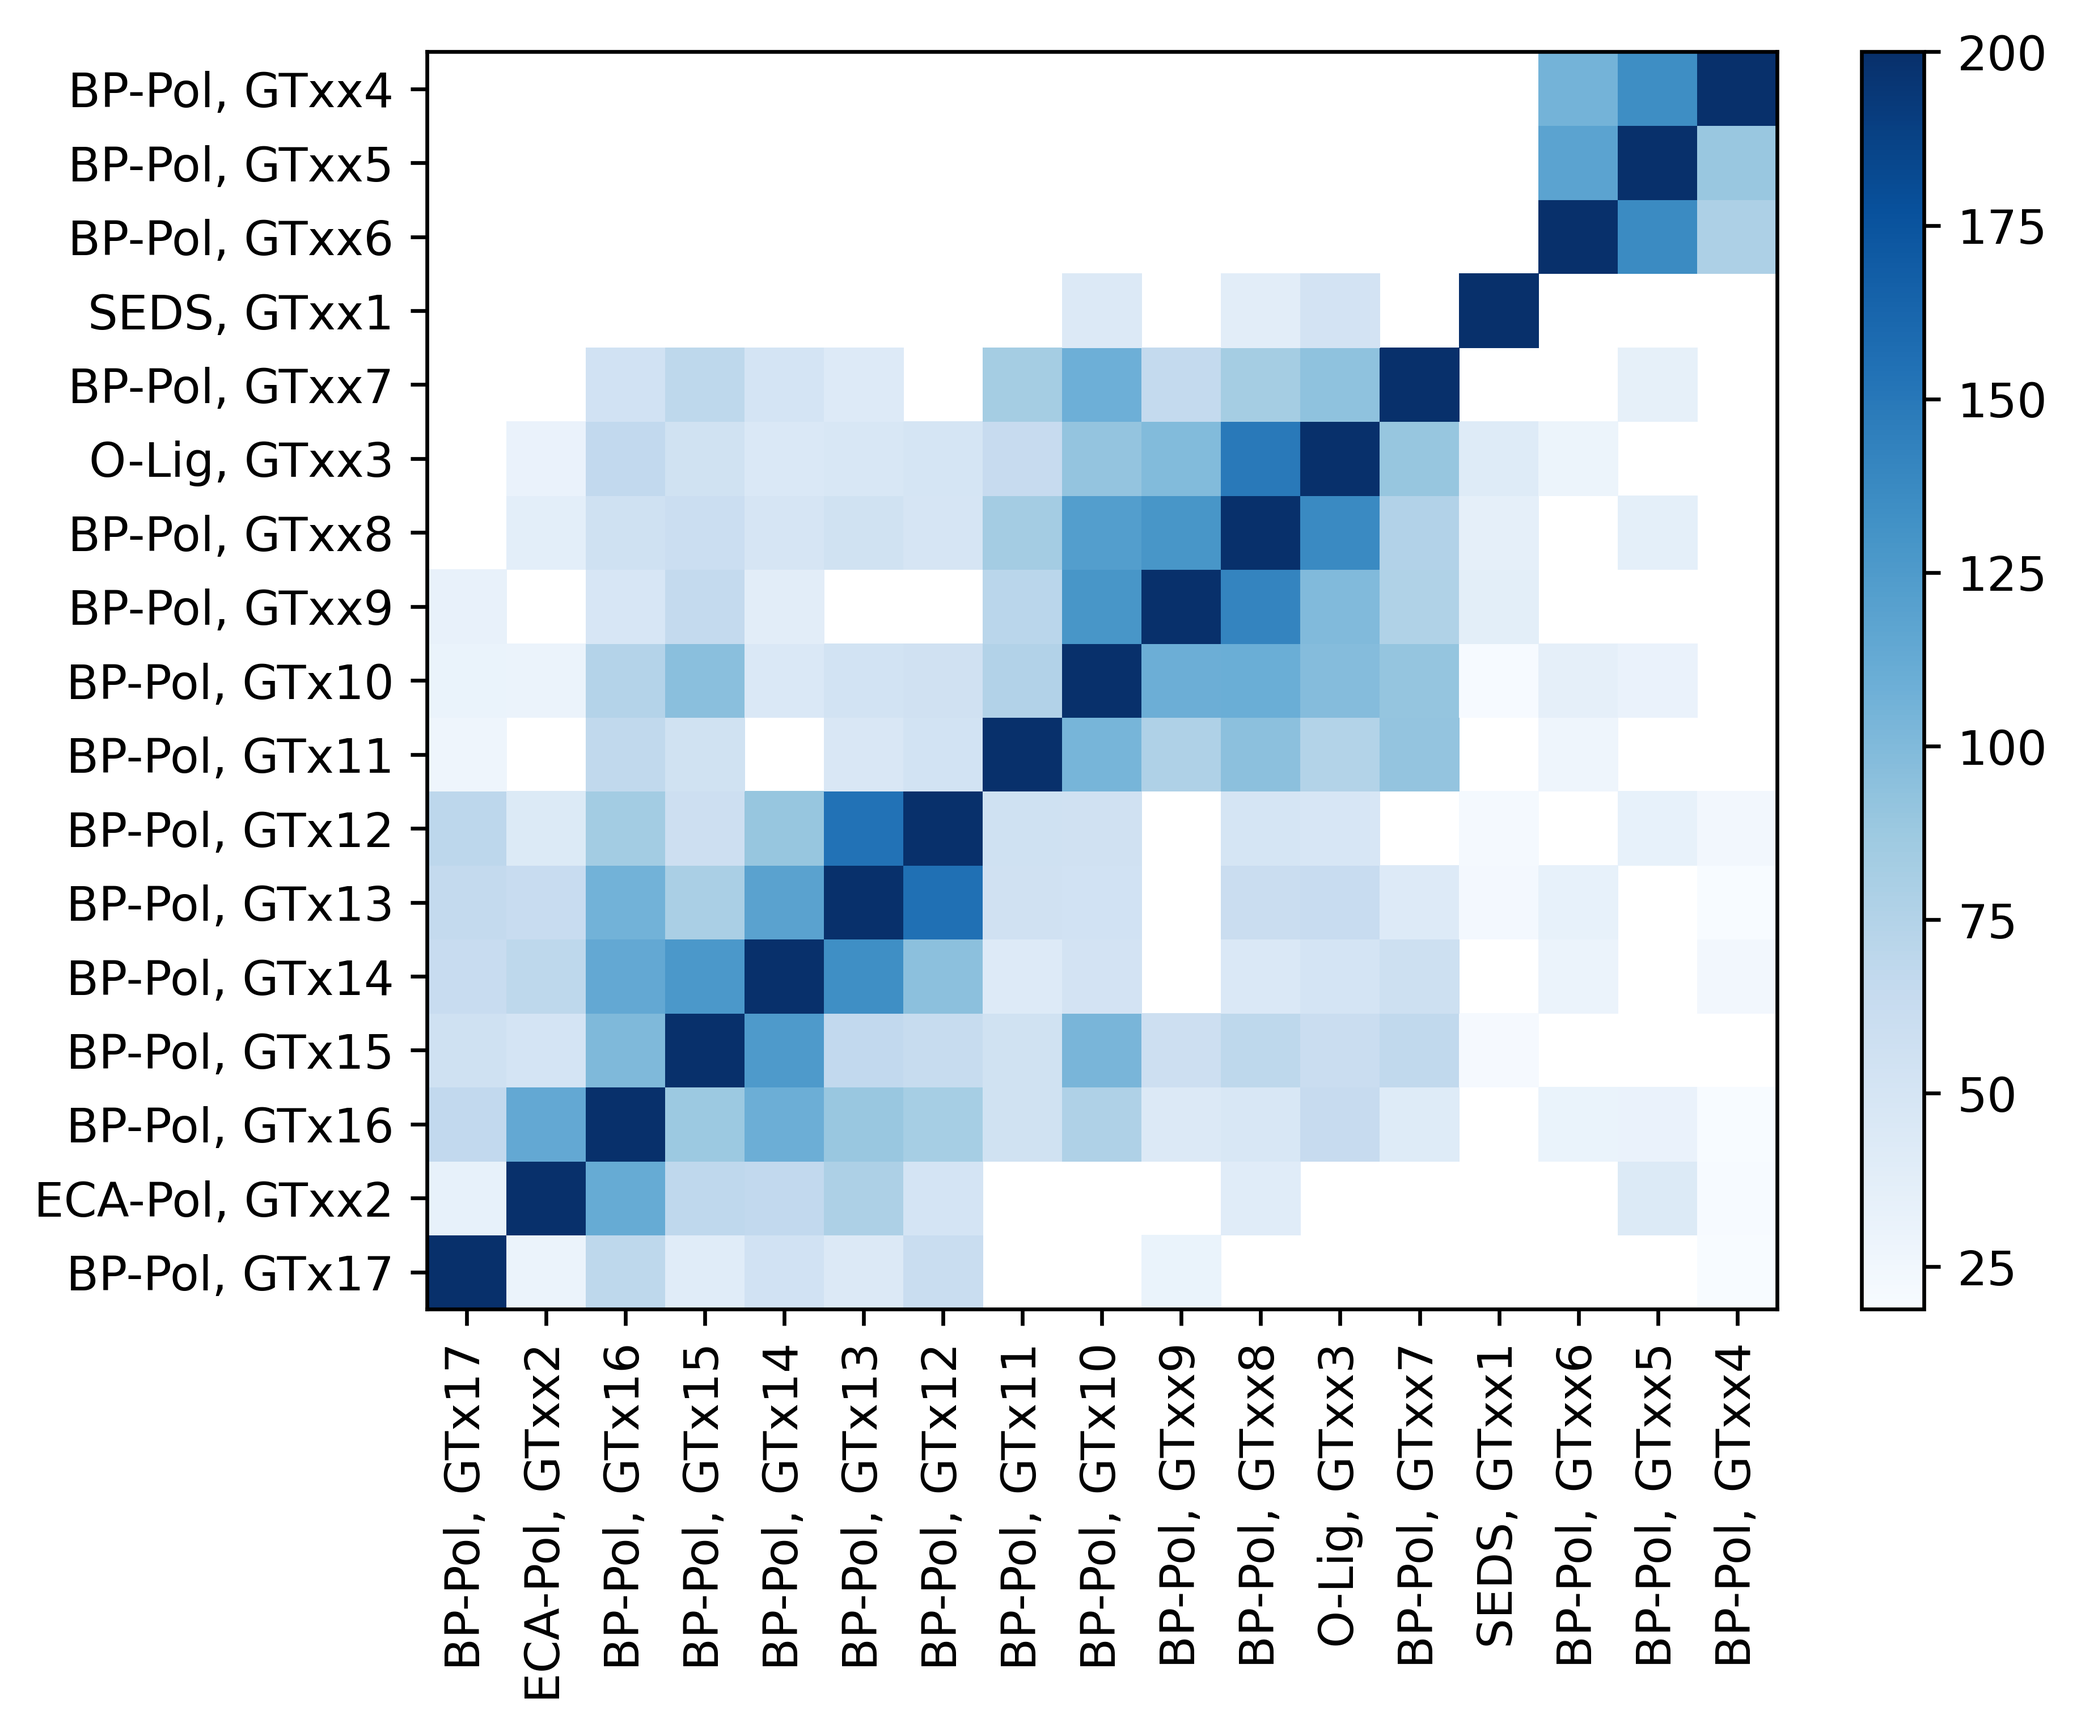
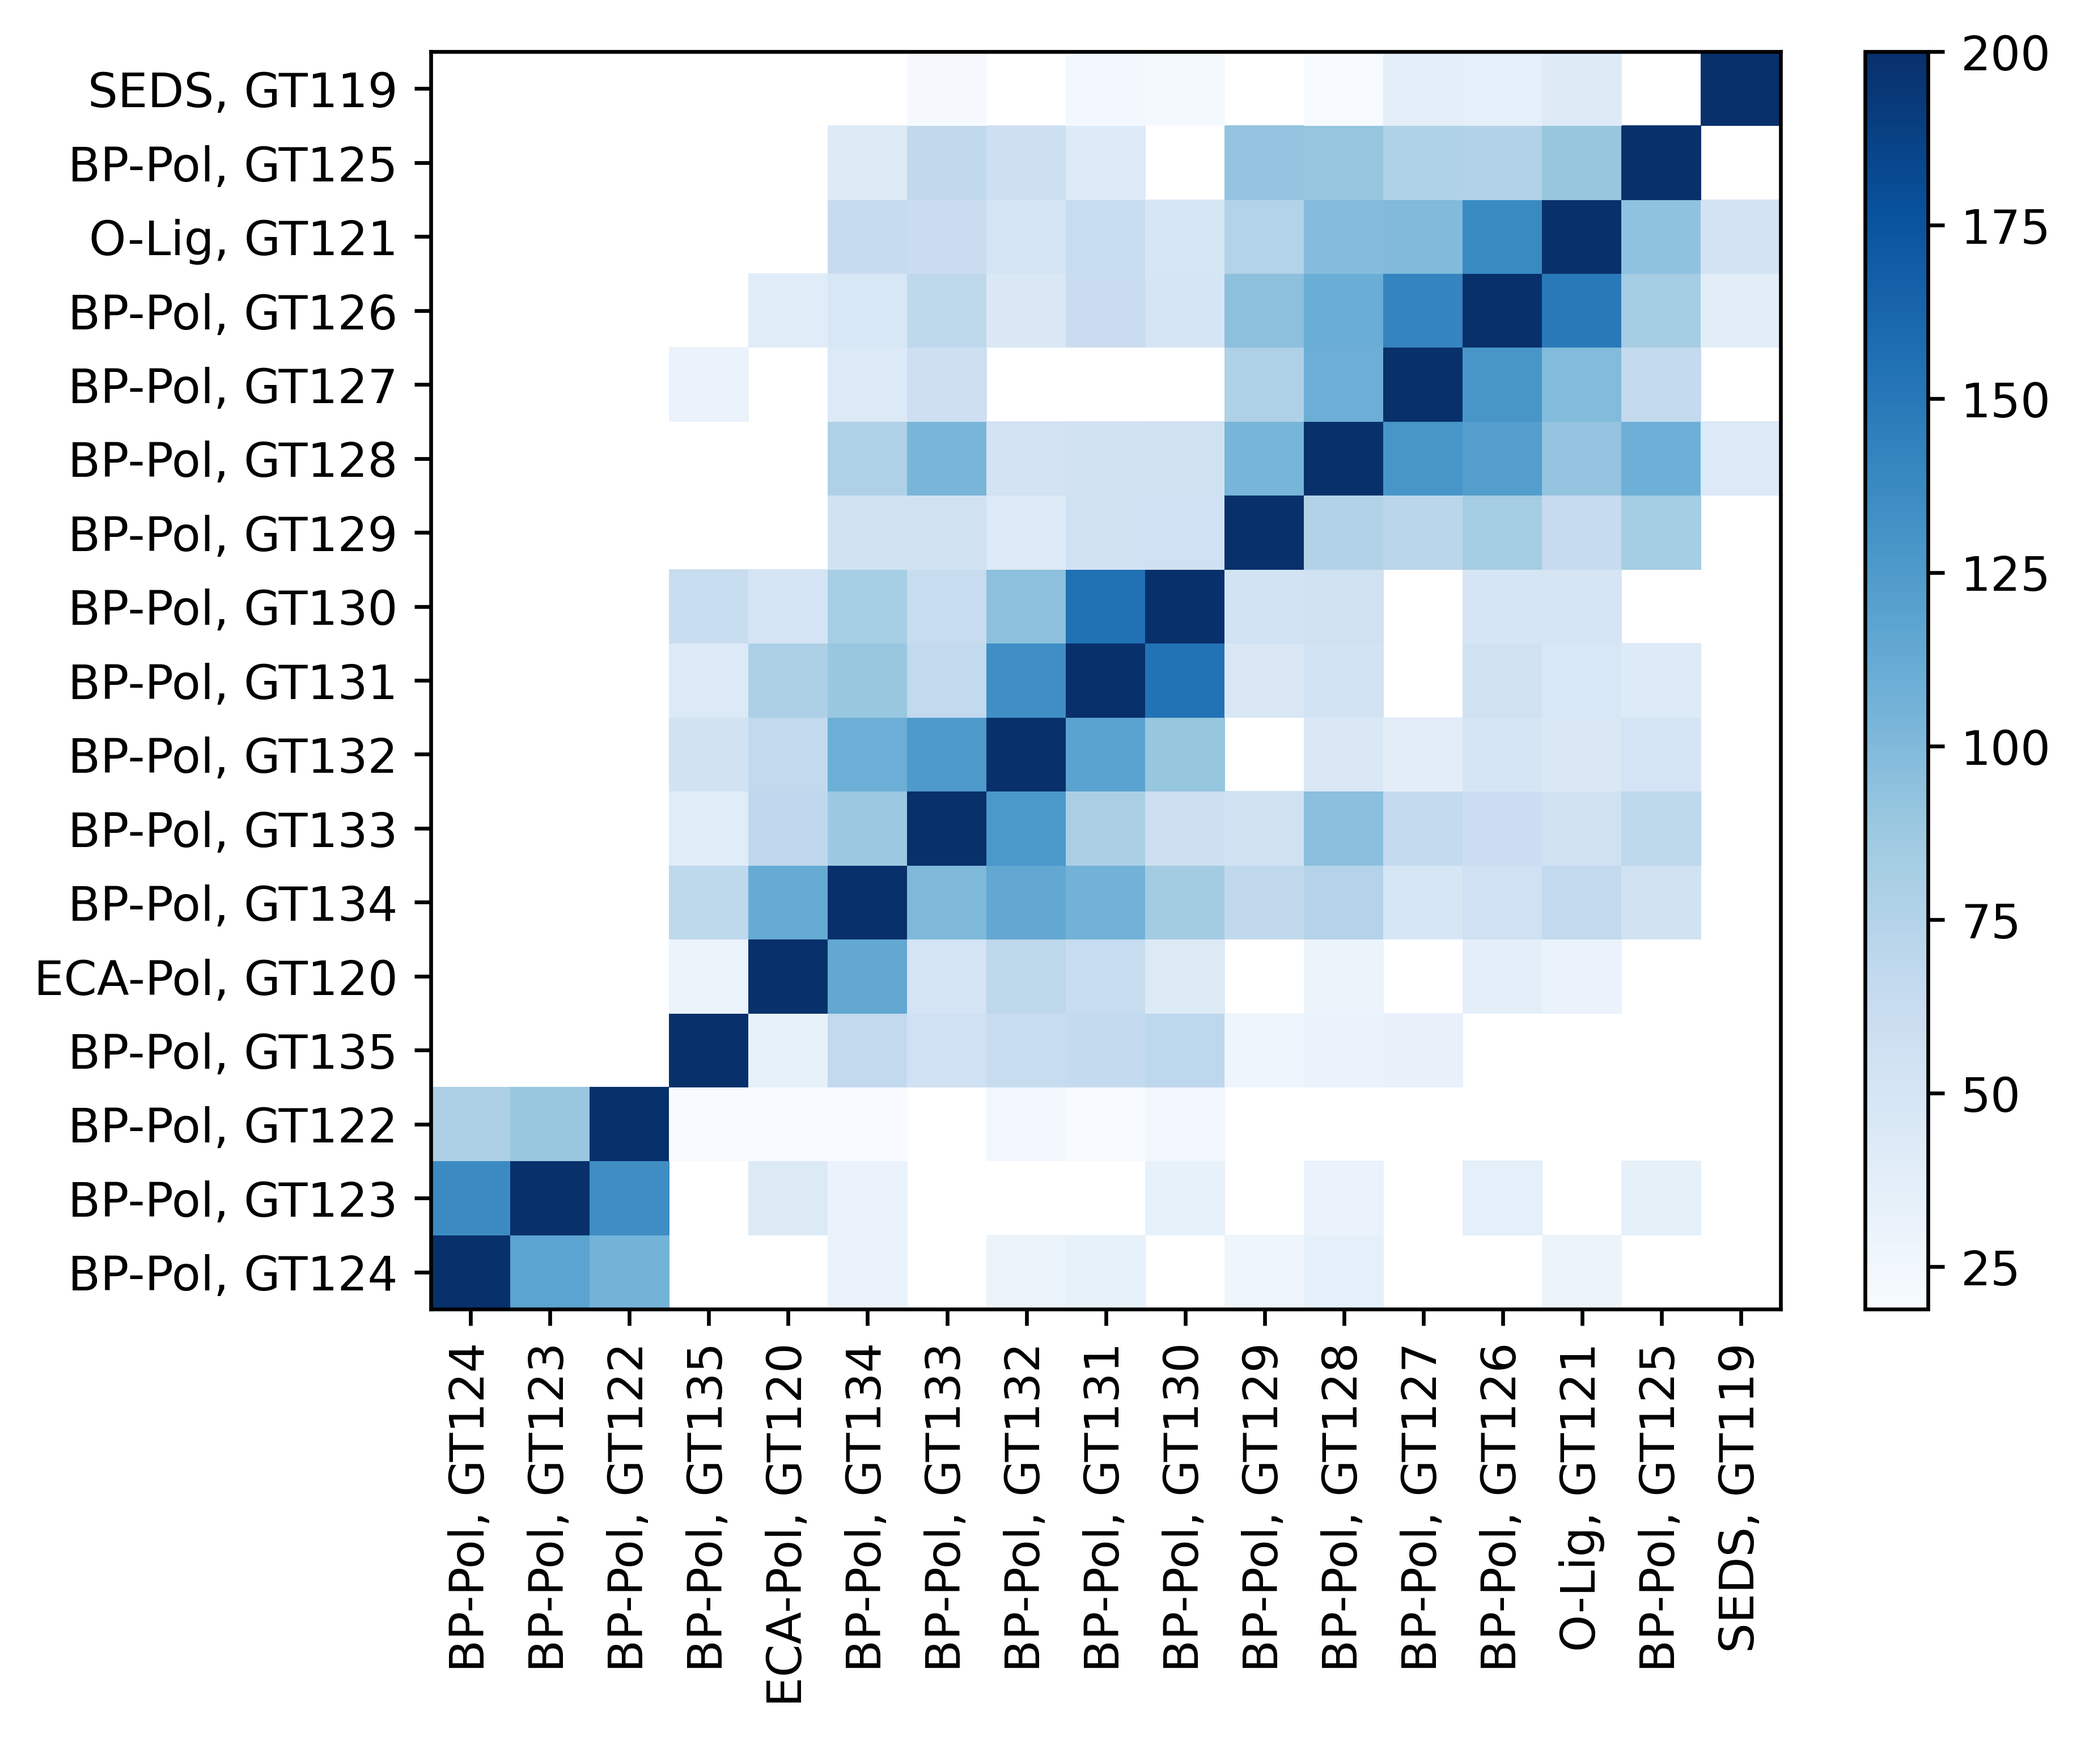
changed family names in hhblits heatmap

diff --git a/src/compare-cazy-families/make-heatmap.py b/src/compare-cazy-families/make-heatmap.py
@@ -17,10 +17,10 @@ acc2name = {'ADC54950.1':'X612', 'AHB32861.1':'X617', 'cazy201071':'SEDS, X571',
     'ADI43271.1': 'X634'
 }
 
-old2newnames = {'SEDS, X571': 'SEDS, GTxx1',
-         'X617': 'BP-Pol, GTxx4', 'X631': 'BP-Pol, GTxx5', 'X634': 'BP-Pol, GTxx6',
-         'X613': 'BP-Pol, GTxx7', 'O-Lig, X615': 'O-Lig, GTxx3', 'X614': 'BP-Pol, GTxx8', 'X609': 'BP-Pol, GTxx9', 'X607': 'BP-Pol, GTx10', 'X605': 'BP-Pol, GTx11',
-         'X610': 'BP-Pol, GTx12', 'X612': 'BP-Pol, GTx13', 'X606': 'BP-Pol, GTx14', 'X611': 'BP-Pol, GTx15', 'X608': 'BP-Pol, GTx16', 'ECA-Pol, X586': 'ECA-Pol, GTxx2', 'X633': 'BP-Pol, GTx17'}
+old2newnames = {'SEDS, X571': 'SEDS, GT119',
+         'X617': 'BP-Pol, GT122', 'X631': 'BP-Pol, GT123', 'X634': 'BP-Pol, GT124',
+         'X613': 'BP-Pol, GT125', 'O-Lig, X615': 'O-Lig, GT121', 'X614': 'BP-Pol, GT126', 'X609': 'BP-Pol, GT127', 'X607': 'BP-Pol, GT128', 'X605': 'BP-Pol, GT129',
+         'X610': 'BP-Pol, GT130', 'X612': 'BP-Pol, GT131', 'X606': 'BP-Pol, GT132', 'X611': 'BP-Pol, GT133', 'X608': 'BP-Pol, GT134', 'ECA-Pol, X586': 'ECA-Pol, GT120', 'X633': 'BP-Pol, GT135'}
 
 mydict = dict()
 for filename in hhr_filenames:
@@ -37,7 +37,6 @@ for filename in hhr_filenames:
     mydict[new_query_family_name] = hits_family_names
 
 df = pd.DataFrame.from_dict(mydict)
-# df_log = np.log10(df)
 
 # Set diagonal to max
 max_score = df.max().max()
@@ -45,17 +44,16 @@ for index, row in df.iterrows():
     row[index] = 200
     pass
 
-# order = ['SEDS, X571',
-#          'X617', 'X631', 'X634',
-#          'X613', 'O-Lig, X615', 'X614', 'X609', 'X607', 'X605',
-#          'X610', 'X612', 'X606', 'X611', 'X608', 'ECA-Pol, X586', 'X633'
-#     ]
-
-order = ['BP-Pol, GTxx4', 'BP-Pol, GTxx5', 'BP-Pol, GTxx6',
-         'SEDS, GTxx1', 'BP-Pol, GTxx7', 'O-Lig, GTxx3', 'BP-Pol, GTxx8', 'BP-Pol, GTxx9', 'BP-Pol, GTx10', 'BP-Pol, GTx11',
+order = ['SEDS, GTxx1', 'BP-Pol, GTxx7', 'O-Lig, GTxx3', 'BP-Pol, GTxx8', 'BP-Pol, GTxx9', 'BP-Pol, GTx10', 'BP-Pol, GTx11',
          'BP-Pol, GTx12', 'BP-Pol, GTx13', 'BP-Pol, GTx14', 'BP-Pol, GTx15', 'BP-Pol, GTx16', 'ECA-Pol, GTxx2', 'BP-Pol, GTx17',
+         'BP-Pol, GTxx4', 'BP-Pol, GTxx5', 'BP-Pol, GTxx6'
          ]
 
+order = ['SEDS, GT119', 'BP-Pol, GT125', 'O-Lig, GT121', 'BP-Pol, GT126', 'BP-Pol, GT127', 'BP-Pol, GT128', 'BP-Pol, GT129',
+         'BP-Pol, GT130', 'BP-Pol, GT131', 'BP-Pol, GT132', 'BP-Pol, GT133', 'BP-Pol, GT134', 'ECA-Pol, GT120', 'BP-Pol, GT135',
+         'BP-Pol, GT122', 'BP-Pol, GT123', 'BP-Pol, GT124']
+         
+df = df.transpose()
 df = df.loc[reversed(order), reversed(order)]
 
 df.to_csv("data/hhblits_cazy_families/distance-matrix-hhblits.tsv", sep='\t')
